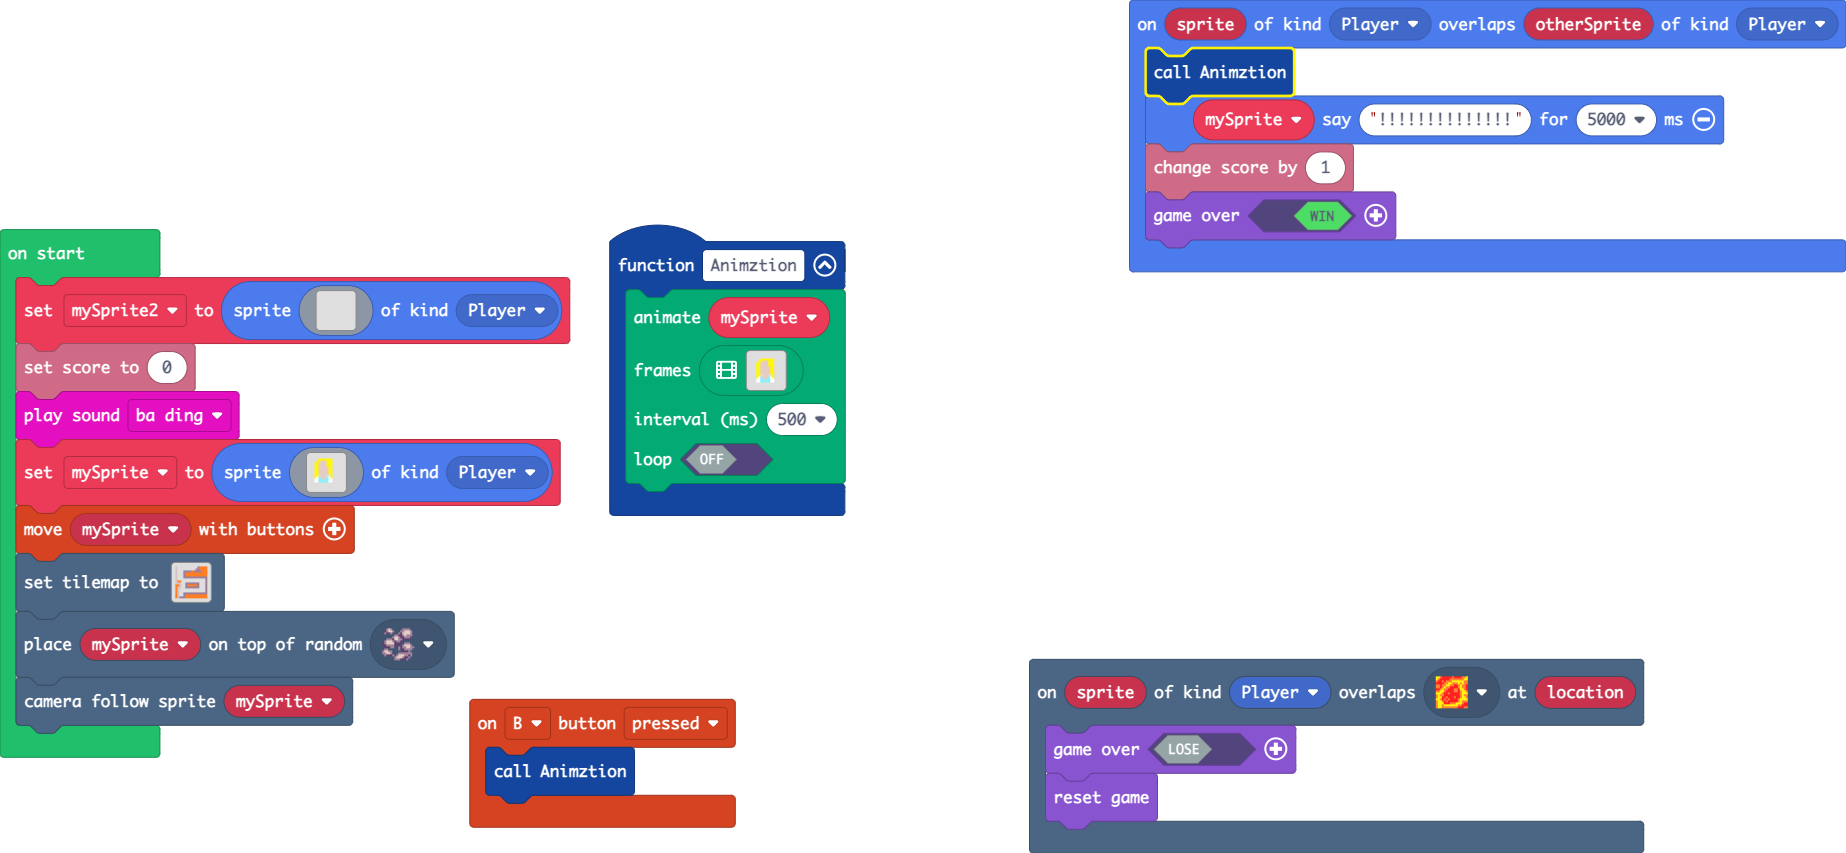
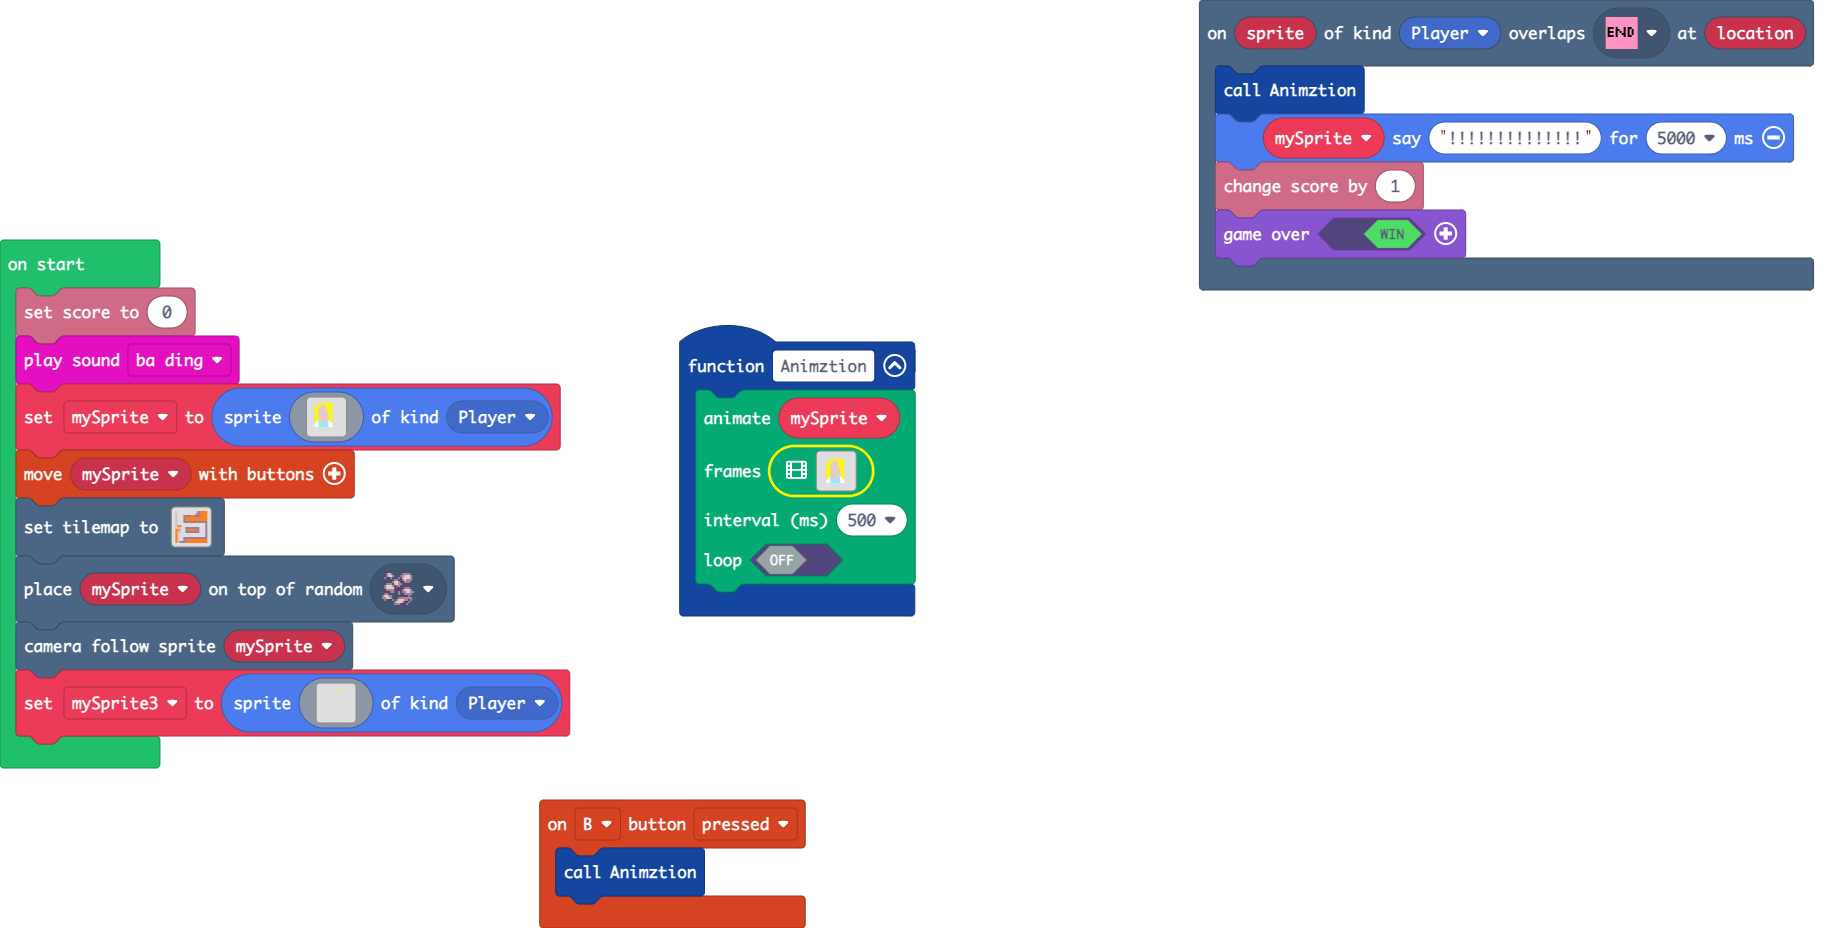
Update main.blocks, main.ts, tilemap.g.jres, tilemap.g.ts

diff --git a/tilemap.g.ts b/tilemap.g.ts
@@ -89,6 +89,44 @@ namespace myTiles {
 . 2 . . 2 . . . . . . . . . . . 
 . 2 . . 2 . . . . . . . . . . . 
 `, [myTiles.transparency16,sprites.dungeon.floorDark1,sprites.castle.rock2,sprites.dungeon.hazardLava0,sprites.dungeon.hazardLava1,sprites.dungeon.floorLight1,myTiles.tile3,myTiles.tile4], TileScale.Sixteen);
+            case "level5":
+            case "level5":return tiles.createTilemap(hex`1000100000000000000000000000000000000000000000000000000000000000000000000000000000000000000000000000000000000000000000000000000000000000000000000000000000000000000000000000000000000000000000000000000000000000000000000000000000000000000000000000000000000000000000000000000000000000000000000000000000000000000000000000000000000000000000000000000000000000000000000000000000000000000000000000000000000000000000000000000000000000000000000000000000000000000000000000000000000000000000000000000000000000000000000000000000000000`, img`
+. . . . . . . . . . . . . . . . 
+. . . . . . . . . . . . . . . . 
+. . . . . . . . . . . . . . . . 
+. . . . . . . . . . . . . . . . 
+. . . . . . . . . . . . . . . . 
+. . . . . . . . . . . . . . . . 
+. . . . . . . . . . . . . . . . 
+. . . . . . . . . . . . . . . . 
+. . . . . . . . . . . . . . . . 
+. . . . . . . . . . . . . . . . 
+. . . . . . . . . . . . . . . . 
+. . . . . . . . . . . . . . . . 
+. . . . . . . . . . . . . . . . 
+. . . . . . . . . . . . . . . . 
+. . . . . . . . . . . . . . . . 
+. . . . . . . . . . . . . . . . 
+`, [myTiles.transparency16], TileScale.Sixteen);
+            case "level6":
+            case "level6":return tiles.createTilemap(hex`1000100000000000000000000000000000000000000000000000000000000000000000000000000000000000000000000000000000000000000000000000000000000000000000000000000000000000000000000000000000000000000000000000000000000000000000000000000000000000000000000000000000000000000000000000000000000000000000000000000000000000000000000000000000000000000000000000000000000000000000000000000000000000000000000000000000000000000000000000000000000000000000000000000000000000000000000000000000000000000000000000000000000000000000000000000000000000`, img`
+. . . . . . . . . . . . . . . . 
+. . . . . . . . . . . . . . . . 
+. . . . . . . . . . . . . . . . 
+. . . . . . . . . . . . . . . . 
+. . . . . . . . . . . . . . . . 
+. . . . . . . . . . . . . . . . 
+. . . . . . . . . . . . . . . . 
+. . . . . . . . . . . . . . . . 
+. . . . . . . . . . . . . . . . 
+. . . . . . . . . . . . . . . . 
+. . . . . . . . . . . . . . . . 
+. . . . . . . . . . . . . . . . 
+. . . . . . . . . . . . . . . . 
+. . . . . . . . . . . . . . . . 
+. . . . . . . . . . . . . . . . 
+. . . . . . . . . . . . . . . . 
+`, [myTiles.transparency16], TileScale.Sixteen);
         }
         return null;
     })

diff --git a/main.ts b/main.ts
@@ -1,9 +1,11 @@
+scene.onOverlapTile(SpriteKind.Player, assets.tile`myTile0`, function (sprite, location) {
+    Animztion()
+    mySprite.say("!!!!!!!!!!!!!!", 5000)
+    info.changeScoreBy(1)
+    game.over(true)
+})
 controller.B.onEvent(ControllerButtonEvent.Pressed, function () {
     Animztion()
-})
-scene.onOverlapTile(SpriteKind.Player, sprites.dungeon.hazardLava0, function (sprite, location) {
-    game.over(false)
-    game.reset()
 })
 function Animztion () {
     animation.runImageAnimation(
@@ -81,31 +83,7 @@ function Animztion () {
     false
     )
 }
-sprites.onOverlap(SpriteKind.Player, SpriteKind.Player, function (sprite, otherSprite) {
-    Animztion()
-    mySprite.say("!!!!!!!!!!!!!!", 5000)
-    info.changeScoreBy(1)
-    game.over(true)
-})
 let mySprite: Sprite = null
-let mySprite2 = sprites.create(img`
-    . . . . . . . . . . . . . . . . 
-    . . . . . . . . . . . . . . . . 
-    . . . . . . . . . . . . . . . . 
-    . . . . . . . . . . . . . . . . 
-    . . . . . . . . . . . . . . . . 
-    . . . . . . . . . . . . . . . . 
-    . . . . . . . . . . . . . . . . 
-    . . . . . . . . . . . . . . . . 
-    . . . . . . . . . . . . . . . . 
-    . . . . . . . . . . . . . . . . 
-    . . . . . . . . . . . . . . . . 
-    . . . . . . . . . . . . . . . . 
-    . . . . . . . . . . . . . . . . 
-    . . . . . . . . . . . . . . . . 
-    . . . . . . . . . . . . . . . . 
-    . . . . . . . . . . . . . . . . 
-    `, SpriteKind.Player)
 info.setScore(0)
 music.baDing.play()
 mySprite = sprites.create(img`
@@ -130,3 +108,21 @@ controller.moveSprite(mySprite)
 tiles.setTilemap(tilemap`level3`)
 tiles.placeOnRandomTile(mySprite, sprites.castle.rock2)
 scene.cameraFollowSprite(mySprite)
+let mySprite3 = sprites.create(img`
+    . . . . . . . . . . . . . . . . 
+    . . . . . . . . . . 5 . . . . . 
+    . . . . . . . . . . . . . . . . 
+    . . . . . . . . . . . . . . . . 
+    . . . . . . . . . . . . . . . . 
+    . . . . . . . . . . . . . . . . 
+    . . . . . . . . . . . . . . . . 
+    . . . . . . . . . . . . . . . . 
+    . . . . . . . . . . . . . . . . 
+    . . . . . . . . . . . . . . . . 
+    . . . . . . . . . . . . . . . . 
+    . . . . . . . . . . . . . . . . 
+    . . . . . . . . . . . . . . . . 
+    . . . . . . . . . . . . . . . . 
+    . . . . . . . . . . . . . . . . 
+    . . . . . . . . . . . . . . . . 
+    `, SpriteKind.Player)
